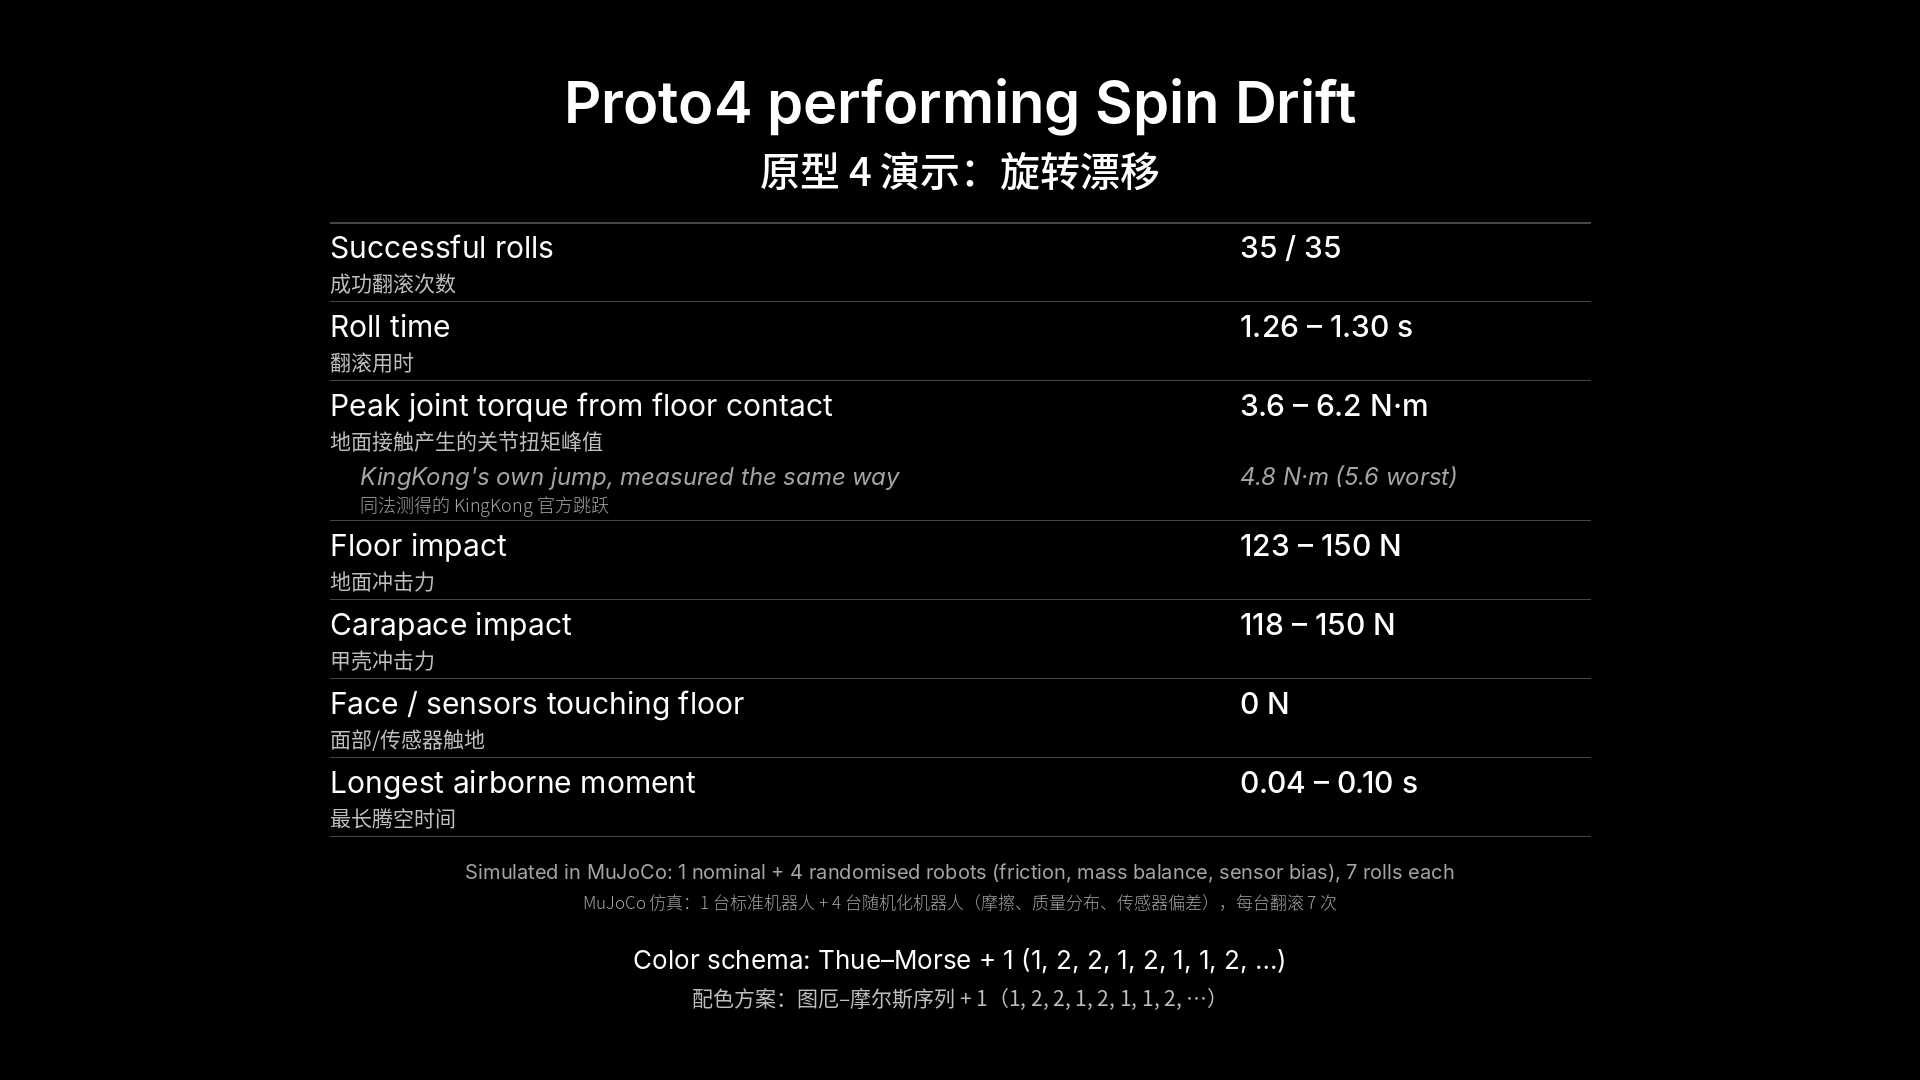
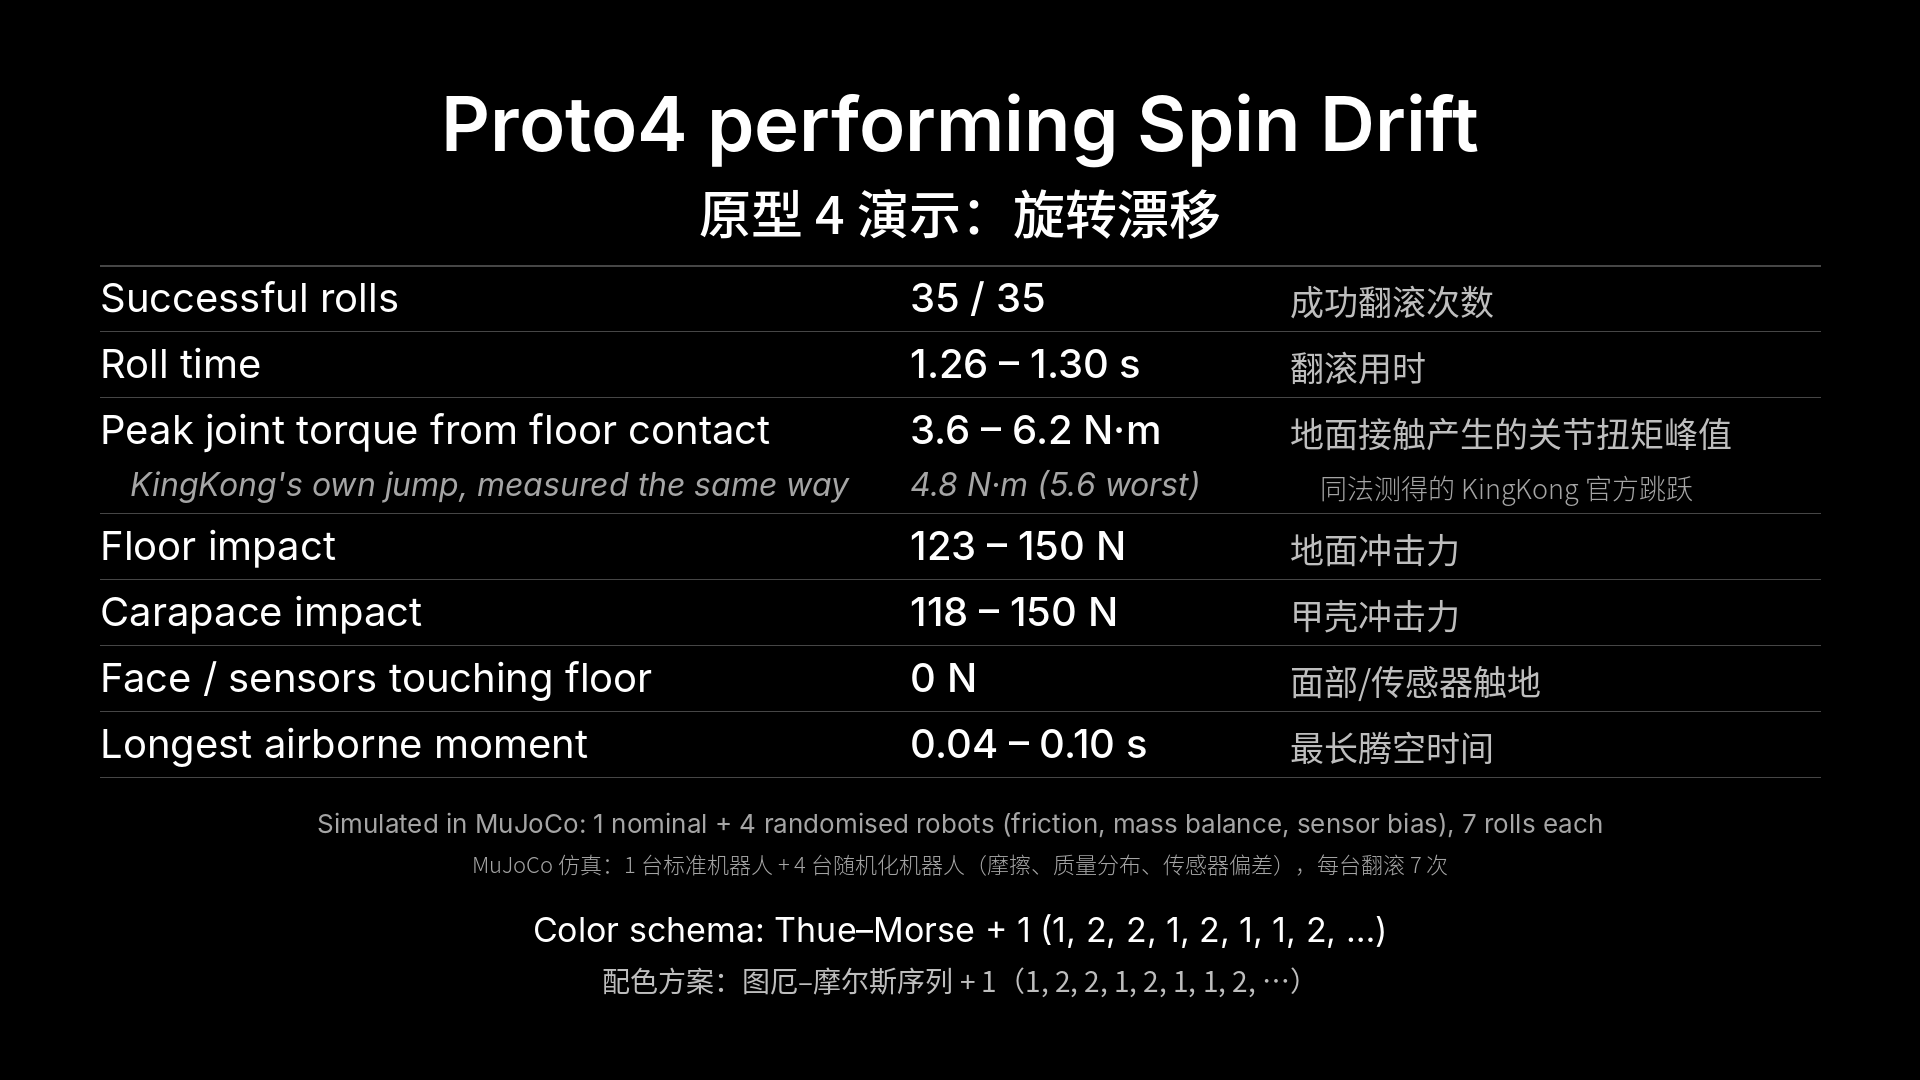
Footage slides: Chinese in a column of its own, English at full size
Claude-Session: https://claude.ai/code/session_018e6UqHzaryVWYHuwL5wCvh

diff --git a/studies/footage/make_slide.py b/studies/footage/make_slide.py
@@ -29,7 +29,7 @@ spec = json.load(open(sys.argv[1]))
 rows = [r if isinstance(r, dict) else {"en": r[0], "value": r[1], "note": (r[2:] or [""])[0] == "note"}
         for r in spec["rows"]]
 zh = any(r.get("zh") for r in rows) or bool(spec.get("title_zh"))
-k = 0.76 if zh else 1.0          # everything a little smaller when there are two languages
+k = 1.0                          # the English stays full size; Chinese goes alongside
 
 
 def inter(style, size):
@@ -43,8 +43,8 @@ def cjk(style, size):
 img = Image.new("RGB", (W, H), (0, 0, 0))
 dr = ImageDraw.Draw(img)
 f_title, f_title_zh = inter("SemiBold", 76), cjk("Medium", 52)
-f_label, f_value, f_label_zh = inter("Regular", 40), inter("Medium", 40), cjk("Regular", 28)
-f_note, f_note_zh = inter("Italic", 32), cjk("Light", 24)
+f_label, f_value, f_label_zh = inter("Regular", 40), inter("Medium", 40), cjk("Regular", 34)
+f_note, f_note_zh = inter("Italic", 32), cjk("Light", 27)
 f_foot, f_foot_zh = inter("Regular", 26), cjk("Light", 22)
 f_schema, f_schema_zh = inter("Regular", 34), cjk("Regular", 28)
 
@@ -58,24 +58,23 @@ def h(size):
 
 
 # Heights, top to bottom, so the block can be centred.
-title_h = h(96) + (h(70) if spec.get("title_zh") else 0)
-row_hs = []
-for r in rows:
-    base = h(50) if r.get("note") else h(66)
-    row_hs.append(base + (h(30 if r.get("note") else 38) if r.get("zh") else 0))
+title_h = h(96) + (h(62) if spec.get("title_zh") else 0)
+row_hs = [h(50) if r.get("note") else h(66) for r in rows]
 foot_h = h(40) + (h(32) if spec.get("footnote_zh") else 0)
 schema_h = (h(50) + (h(44) if spec.get("schema_zh") else 0)) if spec.get("schema") else 0
-block = title_h + h(40) + sum(row_hs) + h(30) + foot_h + (h(40) + schema_h if schema_h else 0)
+gap = h(30) if zh else h(40)
+block = title_h + gap + sum(row_hs) + h(30) + foot_h + (gap + schema_h if schema_h else 0)
 y = (H - block) // 2
 
 centred(y, spec["title"], f_title, WHITE)
 y += h(96)
 if spec.get("title_zh"):
     centred(y, spec["title_zh"], f_title_zh, WHITE)
-    y += h(70)
-y += h(40)
+    y += h(62)
+y += gap
 
-x_label, x_value, x_end = 330, 1240, 1590
+# With Chinese, a third column: English label, value, Chinese label.
+x_label, x_value, x_zh, x_end = (100, 910, 1290, 1820) if zh else (330, 1240, None, 1590)
 dr.line([(x_label, y), (x_end, y)], fill=LINE, width=2)
 for i, (r, rh) in enumerate(zip(rows, row_hs)):
     note = r.get("note")
@@ -84,7 +83,7 @@ for i, (r, rh) in enumerate(zip(rows, row_hs)):
     dr.text((x_label + indent, top), r["en"], font=f_note if note else f_label,
             fill=GREY if note else WHITE)
     if r.get("zh"):
-        dr.text((x_label + indent, top + (h(40) if note else h(50))), r["zh"],
+        dr.text((x_zh + indent, top + (h(2) if note else h(2))), r["zh"],
                 font=f_note_zh if note else f_label_zh, fill=GREY if note else DIM)
     # The value sits level with the English line.
     dr.text((x_value, top), r["value"], font=f_note if note else f_value,
@@ -103,7 +102,7 @@ if spec.get("footnote_zh"):
     centred(y, spec["footnote_zh"], f_foot_zh, GREY)
     y += h(32)
 if spec.get("schema"):
-    y += h(40)
+    y += gap
     centred(y, spec["schema"], f_schema, WHITE)
     y += h(50)
     if spec.get("schema_zh"):
